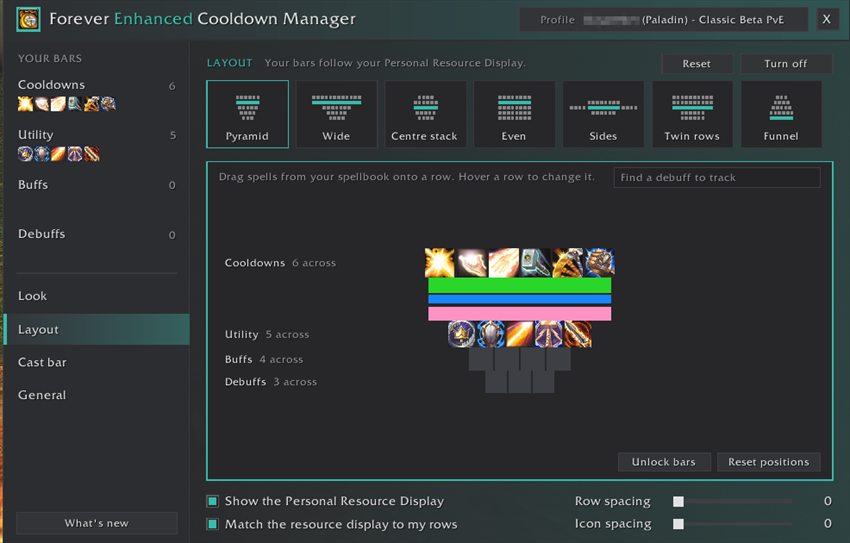
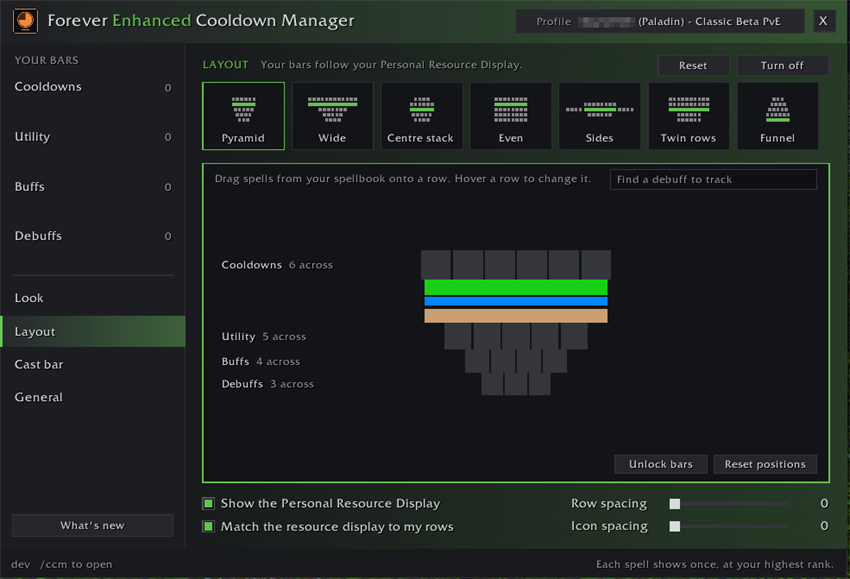
New screenshots for the README and CurseForge description

diff --git a/Tools/CurseForgeDescription.html b/Tools/CurseForgeDescription.html
@@ -2,6 +2,7 @@
 <p><a href="https://discord.gg/FVfcDWJncr" target="_blank" rel="nofollow noopener"><img src="https://img.shields.io/badge/Discord-Join us-5865F2?logo=discord&amp;logoColor=white" alt="Join the Discord community" width="118" height="20"></a></p>
 <p>💬 <strong>Support, bugs &amp; ideas:</strong> join our Discord to get help, report issues and suggest features.</p>
 <p><em>A cleaner look for Blizzard's Cooldown Manager and Personal Resource Display on World of Warcraft: Forever, plus cooldown, buff and cast bars of your own that stack around your resource display. Every feature is optional.</em></p>
+<p><img src="https://raw.githubusercontent.com/squirtwow/ForeverEnhancedCooldownManager/main/Screenshots/layout-page.png" alt="The Layout page: stack your bars around your Personal Resource Display" width="850" height="579"></p>
 <hr>
 <h2>✦ Highlights</h2>
 <ul>
@@ -17,6 +18,10 @@
 <li>🎓&nbsp;<strong>A quick tour</strong> the first time you log in: it opens each page and points at the basics. Skip it, or take it again any time</li>
 <li>🗺&nbsp;<strong>Minimap button</strong>: click it for the settings, drag it round the minimap, or hide it</li>
 </ul>
+<p><img src="https://raw.githubusercontent.com/squirtwow/ForeverEnhancedCooldownManager/main/Screenshots/in-game-auto-shot.png" alt="Your bars, resource display and swing timer in game" width="309" height="173">&nbsp;<img src="https://raw.githubusercontent.com/squirtwow/ForeverEnhancedCooldownManager/main/Screenshots/tracked-bars.png" alt="Blizzard's Tracked Bars in the new look" width="423" height="139"></p>
+<p><img src="https://raw.githubusercontent.com/squirtwow/ForeverEnhancedCooldownManager/main/Screenshots/combo-points.png" alt="Combo points under the energy bar" width="310" height="77">&nbsp;<img src="https://raw.githubusercontent.com/squirtwow/ForeverEnhancedCooldownManager/main/Screenshots/whole-bar-shadow.png" alt="A whole-bar shadow round the stack" width="317" height="129"></p>
+<p><img src="https://raw.githubusercontent.com/squirtwow/ForeverEnhancedCooldownManager/main/Screenshots/look-page.png" alt="The Look page" width="850" height="581"></p>
+<p><img src="https://raw.githubusercontent.com/squirtwow/ForeverEnhancedCooldownManager/main/Screenshots/cast-bar-page.png" alt="The Cast bar page, with the swing timer" width="850" height="583"></p>
 <hr>
 <h2>✦ Getting started</h2>
 <ol>
@@ -26,6 +31,7 @@
 <li>Pick a layout on the <strong>Layout</strong> page to stack them around your Personal Resource Display</li>
 </ol>
 <p>Blizzard's Cooldown Manager must be on for its new look: <code>/ccm</code> tells you if it's off and can turn it on.</p>
+<p><img src="https://raw.githubusercontent.com/squirtwow/ForeverEnhancedCooldownManager/main/Screenshots/tour.png" alt="The quick tour" width="591" height="305"></p>
 <hr>
 <h2>✦ Also by Squirt</h2>
 <p>🏰&nbsp;<a href="https://www.curseforge.com/wow/addons/eraui" target="_blank" rel="noopener"><strong>EraUI</strong></a>: the Classic look for WoW Forever's whole interface, with quality of life options. The two work great together.</p>

diff --git a/README.md b/README.md
@@ -5,11 +5,19 @@ Display** on **World of Warcraft: Forever**, plus cooldown, buff and cast bars
 of your own that stack around your resource display. Works on its own, and sits
 right at home next to EraUI.
 
+![Your bars, resource display and swing timer in game](Screenshots/in-game-auto-shot.png)
+![Blizzard's Tracked Bars in the new look](Screenshots/tracked-bars.png)
+
 ![The Layout page](Screenshots/layout-page.png)
 
-![Your bars in game](Screenshots/in-game.png)
+![The Look page](Screenshots/look-page.png)
 
-![The cast bar and combo points](Screenshots/cast-bar-and-combo-points.png)
+![The Cast bar page](Screenshots/cast-bar-page.png)
+
+![The quick tour](Screenshots/tour.png)
+
+![Combo points under the energy bar](Screenshots/combo-points.png)
+![A whole-bar shadow round the stack](Screenshots/whole-bar-shadow.png)
 
 ## Blizzard's Cooldown Manager
 - Square icons with big, bold countdown numbers
